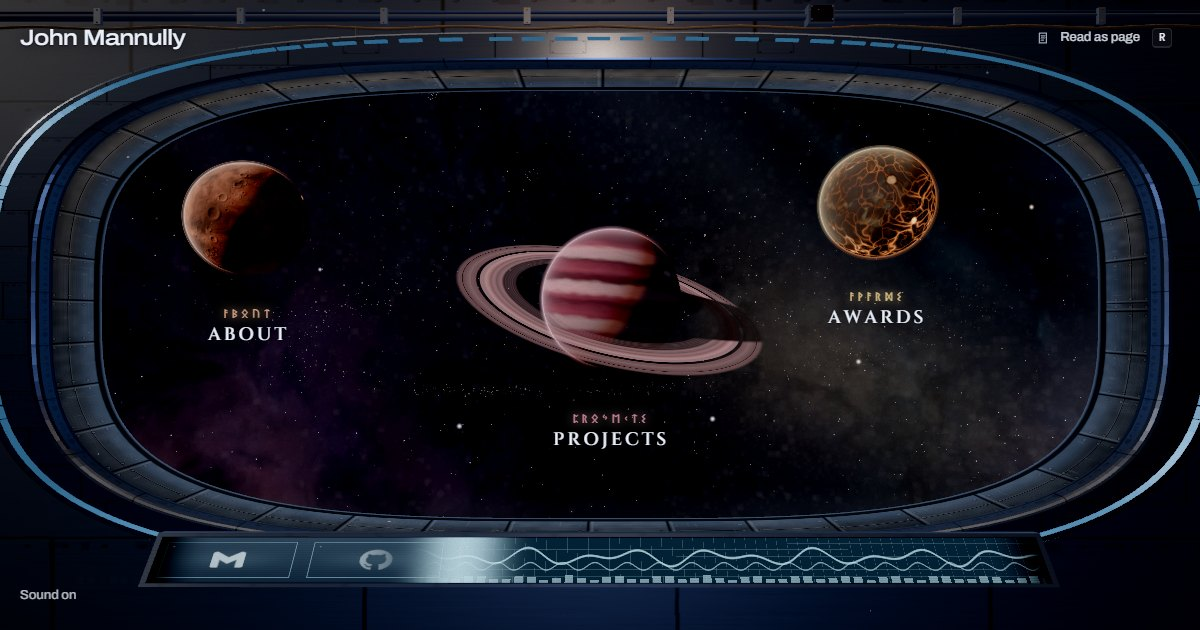
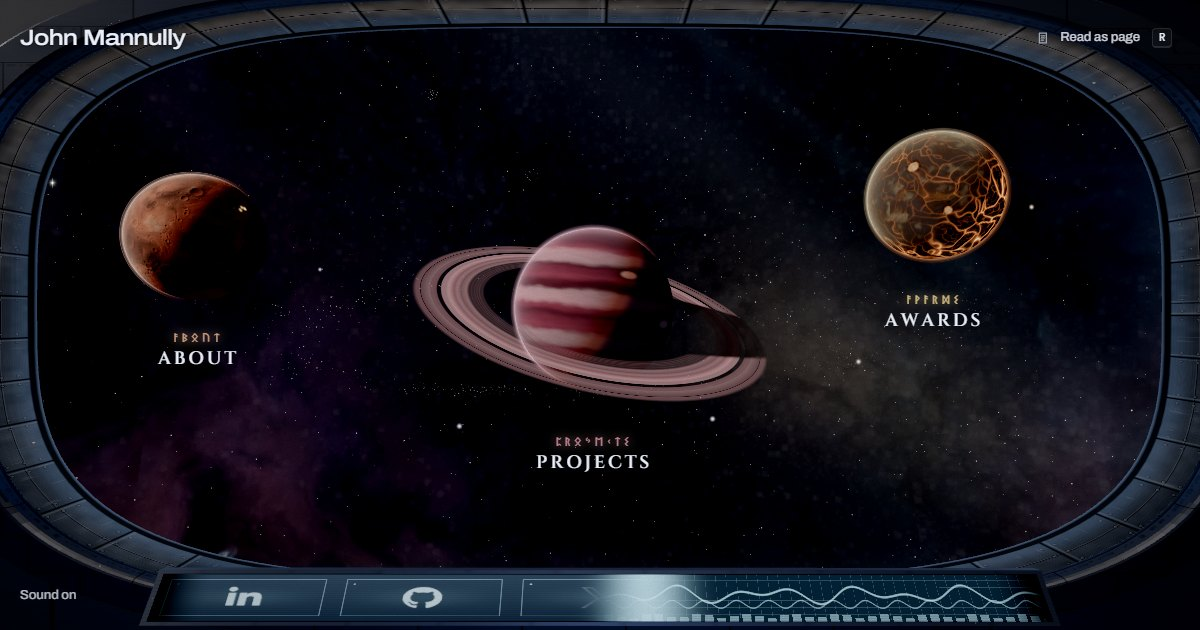
enlarged window, console at bottom, reordered links, removed devpost

diff --git a/index.html b/index.html
@@ -43,7 +43,6 @@
         "email": "mailto:johnmannul@gmail.com",
         "sameAs": [
           "https://github.com/teddycitrus",
-          "https://devpost.com/teddycitrus",
           "https://www.linkedin.com/in/john-mannully/"
         ]
       }
@@ -445,7 +444,6 @@
         <p>
           <a style="color: #e9eef7" href="mailto:johnmannul@gmail.com">Email</a>&nbsp;&nbsp;
           <a style="color: #e9eef7" href="https://github.com/teddycitrus">GitHub</a>&nbsp;&nbsp;
-          <a style="color: #e9eef7" href="https://devpost.com/teddycitrus">Devpost</a>&nbsp;&nbsp;
           <a style="color: #e9eef7" href="https://www.linkedin.com/in/john-mannully/">LinkedIn</a>
         </p>
         <p>This site needs JavaScript and WebGL for the interactive version.</p>
@@ -570,23 +568,14 @@
         // Cockpit.tsx): outlines in frame units, where x / 0.6 and y / 0.6 are screen coordinates (-1..1)
         var deck = boot.querySelector('.deck');
         var D = 0.6;
-        var corners = [[-0.78, 0.8], [0.78, 0.8], [0.9, 0.64], [0.9, -0.46], [0.6, -0.7], [-0.6, -0.7], [-0.9, -0.46], [-0.9, 0.64]];
-        var round = function (pts, rr) {
-          var out = [];
-          for (var i = 0; i < pts.length; i += 1) {
-            var p = pts[i], a = pts[(i - 1 + pts.length) % pts.length], b = pts[(i + 1) % pts.length];
-            var la = Math.hypot(a[0] - p[0], a[1] - p[1]), lb = Math.hypot(b[0] - p[0], b[1] - p[1]);
-            var ra = Math.min(rr, la / 2) / la, rb = Math.min(rr, lb / 2) / lb;
-            var s0 = [p[0] + (a[0] - p[0]) * ra, p[1] + (a[1] - p[1]) * ra];
-            var e0 = [p[0] + (b[0] - p[0]) * rb, p[1] + (b[1] - p[1]) * rb];
-            for (var k = 0; k <= 5; k += 1) {
-              var t = k / 5, u = 1 - t;
-              out.push([u * u * s0[0] + 2 * u * t * p[0] + t * t * e0[0], u * u * s0[1] + 2 * u * t * p[1] + t * t * e0[1]]);
-            }
-          }
-          return out;
-        };
-        var hole = round(corners.slice().reverse(), 0.045).map(function (q) { return [q[0] * D, q[1] * D]; });
+        // the aperture: a squared-off superellipse, S wide, from T at the top down to B (shape.ts)
+        var hole = [];
+        for (var hi = 0; hi < 128; hi += 1) {
+          var ha = (hi / 128) * Math.PI * 2, hc = Math.cos(ha), hs = Math.sin(ha);
+          var hx = (hc < 0 ? -1 : 1) * Math.pow(Math.abs(hc), 2 / 3.4) * 1.04;
+          var hy = (1.02 - 0.92) / 2 + (hs < 0 ? -1 : 1) * Math.pow(Math.abs(hs), 2 / 3.4) * ((1.02 + 0.92) / 2);
+          hole.push([hx * D, hy * D]);
+        }
         var grow = function (pts, d) {
           var n = pts.length;
           var normal = function (i) {
@@ -663,7 +652,7 @@
             g.stroke();
             // the raised frame around the window
             path(grow(hole, 0.045));
-            var trim = g.createLinearGradient(0, Y(0.5), 0, Y(-0.45));
+            var trim = g.createLinearGradient(0, Y(0.62), 0, Y(-0.56));
             trim.addColorStop(0, '#3a414d');
             trim.addColorStop(0.5, '#262b34');
             trim.addColorStop(1, '#171b22');
@@ -700,9 +689,9 @@
             g.shadowBlur = 8;
             g.stroke();
             g.shadowBlur = 0;
-            // the console standing on the dash across the window's foot
+            // the console along the bottom of the view
             var cl = function (x, y) { return [x, y]; };
-            var con = [cl(-0.445, -0.402), cl(0.445, -0.402), cl(0.46, -0.507), cl(-0.46, -0.507)];
+            var con = [cl(-0.445, -0.476), cl(0.445, -0.476), cl(0.46, -0.581), cl(-0.46, -0.581)];
             path([con[3], con[2], con[1], con[0]]);
             g.fillStyle = '#2a3039';
             g.fill();
@@ -716,7 +705,7 @@
             g.save();
             path(face);
             g.clip();
-            var fx0 = X(-0.45), fx1 = X(0.45), fy0 = Y(-0.41), fy1 = Y(-0.5);
+            var fx0 = X(-0.45), fx1 = X(0.45), fy0 = Y(-0.484), fy1 = Y(-0.574);
             g.strokeStyle = 'rgba(110, 200, 255, 0.07)';
             for (var gx = fx0; gx < fx1; gx += (fx1 - fx0) / 40) { g.beginPath(); g.moveTo(gx, fy0); g.lineTo(gx, fy1); g.stroke(); }
             g.strokeStyle = 'rgba(110, 205, 255, 0.75)';

diff --git a/src/scenes/ship/shape.ts b/src/scenes/ship/shape.ts
@@ -8,18 +8,19 @@ export const FRAME_DEPTH = 0.6;
 /**
  * The beam aperture in screen space at rest (1 = screen edge): a rounded,
  * squared-off ring (a superellipse) the tractor beam fires out through, from
- * T at the top down to B above the dashboard. The overworld layout keeps every
+ * T at the top down to B behind the console. It fills nearly the whole view,
+ * its frame just past the edges at rest. The overworld layout keeps every
  * planet inside it (see WINDOW_FIT).
  */
-const S = 0.92;
-const T = 0.8;
-const B = -0.7;
+export const S = 1.04;
+export const T = 1.02;
+export const B = -0.92;
 /** Squareness: 2 is an ellipse, higher fills the corners more */
 const SQUARE = 3.4;
 const HOLE_STEPS = 128;
 
 /** Fraction of the lens the overworld layout may use, so planets stay inside the window. */
-export const WINDOW_FIT = 0.84;
+export const WINDOW_FIT = 0.95;
 
 /** The aperture outline in frame units (counter-clockwise). */
 export const HOLE: Pt[] = Array.from({ length: HOLE_STEPS }, (_, i) => {

diff --git a/src/ui/DashControls.tsx b/src/ui/DashControls.tsx
@@ -1,5 +1,5 @@
 import { useEffect, useRef, type ComponentType, type CSSProperties } from 'react';
-import { SiDevpost, SiGithub, SiGmail, SiX } from 'react-icons/si';
+import { SiGithub, SiGmail, SiX } from 'react-icons/si';
 import { FaLinkedinIn } from 'react-icons/fa6';
 import { PiFileTextBold } from 'react-icons/pi';
 import { profile } from '@/data/content';
@@ -12,7 +12,6 @@ const ICONS: Record<string, ComponentType<{ className?: string }>> = {
   Email: SiGmail,
   GitHub: SiGithub,
   LinkedIn: FaLinkedinIn,
-  Devpost: SiDevpost,
   X: SiX,
   Resume: PiFileTextBold,
 };
@@ -160,7 +159,8 @@ const DashControls = () => {
           return <Icon key={l.label} />;
         })}
       </div>
-      <SoundToggle className="absolute" style={{ left: SAFE.left, bottom: SAFE.bottom }} />
+      {/* where the console reaches the left edge, it sits just above it */}
+      <SoundToggle className="absolute max-[799px]:!bottom-[11%]" style={{ left: SAFE.left, bottom: SAFE.bottom }} />
     </>
   );
 };

diff --git a/src/scenes/ship/Cockpit.tsx b/src/scenes/ship/Cockpit.tsx
@@ -625,11 +625,11 @@ const Cockpit = () => {
         />
         {/* canopy glass: reflections, dust, and the plasma of atmospheric entry */}
         <mesh material={glass} position={[0, 0.03, -D - 0.03]} raycast={noRaycast} renderOrder={29}>
-          <planeGeometry args={[1.3, 1.1]} />
+          <planeGeometry args={[1.45, 1.35]} />
         </mesh>
         <ShipDetails />
-        {/* the console: one long display across the foot of the window, tilted toward the pilot */}
-        <group position={[0, -0.372, -0.49]} rotation={[-0.32, 0, 0]}>
+        {/* the console: one long display along the bottom of the view, tilted toward the pilot */}
+        <group position={[0, -0.432, -0.49]} rotation={[-0.32, 0, 0]}>
           <mesh material={parts.trim} raycast={noRaycast} renderOrder={30}>
             <boxGeometry args={[CONSOLE_W + 0.01, CONSOLE_H + 0.01, 0.008]} />
           </mesh>

diff --git a/src/scenes/ship/materials.ts b/src/scenes/ship/materials.ts
@@ -1,5 +1,5 @@
 import * as THREE from 'three';
-import { FRAME_DEPTH } from './shape';
+import { B, FRAME_DEPTH, S, T } from './shape';
 
 /**
  * Canopy glass: almost invisible. Two soft reflection bands, a haze where the
@@ -48,7 +48,7 @@ export const glassMaterial = () =>
         float refl = exp(-r1 * r1) * 0.006 + exp(-r2 * r2) * 0.005;
         refl *= smoothstep(-0.2, 0.6, n.y + 0.3);
         // haze toward the frame
-        float edge = max(abs(n.x) / 0.9, (n.y > 0.0 ? n.y / 0.8 : -n.y / 0.7));
+        float edge = max(abs(n.x) / ${S.toFixed(3)}, (n.y > 0.0 ? n.y / ${T.toFixed(3)} : n.y / ${B.toFixed(3)}));
         float haze = smoothstep(0.85, 1.0, edge) * 0.006;
         // dust
         float dust = step(0.9975, hash(floor(n * 260.0))) * 0.02 * noise(n * 6.0);

diff --git a/src/ui/OverworldHud.tsx b/src/ui/OverworldHud.tsx
@@ -22,8 +22,8 @@ import DashControls from './DashControls';
 import AlienName from './AlienName';
 
 const SAFE_BANDS = { top: 84, bottom: 104 };
-/** Landscape phones: the header is one 56px row, so names may come up closer to it. */
-const SHORT_BANDS = { top: 64, bottom: 104 };
+/** Landscape phones: the header is one 56px row and the console under 40px, so names may come up closer to both. */
+const SHORT_BANDS = { top: 64, bottom: 56 };
 /** Clears the hover reticle (about 1.15x the planet radius) with room to spare. */
 const LABEL_GAP = (size: number) => size * 0.32 + 18;
 /** Keep other labels off the hover reticle and off ring systems. */

diff --git a/src/data/content.ts b/src/data/content.ts
@@ -24,11 +24,11 @@ export const beaconById = (
  * A vertical zig-zag between the top bar and the bottom dock.
  */
 const PORTRAIT_SLOTS: [number, number, number][] = [
-  [-0.48, 0.22, 0.088],
-  [0.08, 0.37, 0.1],
-  [0.48, 0.51, 0.088],
-  [-0.48, 0.64, 0.088],
-  [0.48, 0.77, 0.088],
+  [-0.48, 0.2, 0.096],
+  [0.08, 0.41, 0.11],
+  [0.48, 0.62, 0.096],
+  [-0.48, 0.72, 0.096],
+  [0.48, 0.8, 0.096],
 ];
 
 const view = { aspect: 16 / 9, fov: 60 };

diff --git a/src/scenes/transition/TransitionController.tsx b/src/scenes/transition/TransitionController.tsx
@@ -27,7 +27,7 @@ const LOCK_ZOOM = 4;
 /** The pull stops this many planet radii from its centre, just outside the atmosphere */
 const DIVE_STOP = 1.4;
 /** The beam leaves the aperture at the bottom of the view (screen y, -1 = bottom edge), just past the wall */
-const MOUTH_Y = -0.72;
+const MOUTH_Y = -0.8;
 const MOUTH_Z = FRAME_DEPTH + 0.08;
 /** Turn about the beam by the end of the pull, radians */
 const PULL_ROLL = 0.5;

diff --git a/src/scenes/ship/ShipDetails.tsx b/src/scenes/ship/ShipDetails.tsx
@@ -180,7 +180,8 @@ class Lamps {
 
 /** Conduit hand-run along the ceiling, with clamps, a tap box and a tag on a cord. */
 const buildCeiling = (k: Kit, l: Lamps) => {
-  const y = 0.566;
+  // above the aperture's frame: out of view at rest, seen when looking up
+  const y = 0.69;
   const z = WALL_Z + 0.007;
   const span = 0.7;
   k.cable([[-span, y, z], [0, y, z], [span, y, z]], 0.0052, C.steelDark);

diff --git a/README.md b/README.md
@@ -138,7 +138,7 @@ flowchart LR
 
 Scene modes always move in this order:
 
-1. `overworld`: the view from the ship's observation deck, where the site opens. The camera turns inside a fixed cockpit (bulkhead, canopy window, dashboard with a console standing across it), and the planet layout is fitted to 84% of the lens so every planet stays inside the window. Hovering a planet or its name highlights it; clicking either (or pressing its number) calls `travelTo`. The names are buttons Tab can reach, and on small portrait screens a name may sit over the edge of a neighbouring planet rather than hide, so every planet stays labelled. The sky is baked once into a cube map: a faint blue floor, the galactic band with star clouds and dust lanes, and four emission nebulae (warped fbm gas, bright knots, dark dust). Over it sit 9000 stars (the brightest with diffraction spikes), three distant spiral galaxies (additive shader planes 170 units out), and a meteor that streaks across the window every few seconds (off with reduced motion). Planets are lit with a soft wrapped terminator, a faint starlight fill on the night side and a bright scattering limb. The console across the dash, under the window, holds the contact keys: one key per entry in `profile.links` (Email, GitHub, Devpost, LinkedIn, X and the resume PDF on Google Drive), each shown as the link's logo. In orbit the console is drawn as a row of key faces (an inset frame, a status light and the logo per cell, the hovered or focused cell glowing) and in flight as a live instrument; switching to the keys, a bright edge sweeps across it over 1.6 s with the faces behind it and the logos a beat later, and back to the instrument in 0.5 s. The logos are painted on the face itself, so they stay fixed to the dash as the view turns: `DashControls` renders the icons once, draws them into a strip (`dashPanel.logos`) and the cockpit uses it as the face's texture. The links themselves are invisible keys laid over the cells: the cockpit projects the face's corners to the screen each frame (`dashPanel.quad`) and each key is clipped to its cell's exact outline. The top bar holds only Read as page; Sound sits bottom left.
+1. `overworld`: the view from the ship's observation deck, where the site opens. The camera turns inside a fixed cockpit (bulkhead, a canopy window filling nearly the whole view, and a console along the bottom edge), and the planet layout is fitted to 95% of the lens so every planet stays inside the window. Hovering a planet or its name highlights it; clicking either (or pressing its number) calls `travelTo`. The names are buttons Tab can reach, and on small portrait screens a name may sit over the edge of a neighbouring planet rather than hide, so every planet stays labelled. The sky is baked once into a cube map: a faint blue floor, the galactic band with star clouds and dust lanes, and four emission nebulae (warped fbm gas, bright knots, dark dust). Over it sit 9000 stars (the brightest with diffraction spikes), three distant spiral galaxies (additive shader planes 170 units out), and a meteor that streaks across the window every few seconds (off with reduced motion). Planets are lit with a soft wrapped terminator, a faint starlight fill on the night side and a bright scattering limb. The console along the bottom of the view holds the contact keys: one key per entry in `profile.links` (LinkedIn, GitHub, X, the resume PDF on Google Drive and Email), each shown as the link's logo. In orbit the console is drawn as a row of key faces (an inset frame, a status light and the logo per cell, the hovered or focused cell glowing) and in flight as a live instrument; switching to the keys, a bright edge sweeps across it over 1.6 s with the faces behind it and the logos a beat later, and back to the instrument in 0.5 s. The logos are painted on the face itself, so they stay fixed to the dash as the view turns: `DashControls` renders the icons once, draws them into a strip (`dashPanel.logos`) and the cockpit uses it as the face's texture. The links themselves are invisible keys laid over the cells: the cockpit projects the face's corners to the screen each frame (`dashPanel.quad`) and each key is clipped to its cell's exact outline. The top bar holds only Read as page; Sound sits bottom left.
 2. `transitioning-in`: the ship comes round onto the planet and plunges at it. The turn eases in and out over 650 ms and follows the planet on its orbit, and the deck keeps its place around the eye with a slight lag (so a planet at the edge of the window is never snapped to). The lens narrows 4 degrees as it locks on. From 150 ms the ship accelerates toward the planet and stops 1.4 radii from its centre, so the planet grows until it fills the window. The lens opens 9 degrees with the speed, speed lines and a rumble come with it, and the planet's air glows faintly on the canopy rim. From 930 ms the view crossfades over 380 ms into that planet's sky, and the mode switches at 1350 ms under full cover.
 3. `planet`: the light clears over 700 ms while the viewer is lowered down the beam from the mothership. The rig places the eye along the line from the spawn to the ship's belly at the exit's pull curve run backwards (about 84 units up the beam at the start, slowing to a crawl over 1500 ms), looking up at the ship with the roll unwinding, then floats the last half unit onto the ground while the view comes down to the field ahead. PlanetCamera publishes the spawn as the beam's foot, so the beam lands where the viewer stands, and it fades out by 2200 ms, when walking starts. The landing clock runs on frame time capped at 100 ms per frame, so a first-frame stall on shader compiles cannot skip the landing. The mothership cruises prow first around a wide loop overhead (95 by 55 units, about 240 up and 165 ahead, about 2.5 units a second), out of view at rest and in view once you look up past about 40 degrees. On desktop the cursor is locked for mouse look (released whenever the reader opens). Walking near or looking at a monument focuses it. A monument chosen by a click, the HUD or a glide stays focused until the viewer moves a unit away, even when the glide ends nearer a neighbour (as it does across the temple aisle). On desktop its orbiting panels (dark, near-solid plates that read from across the field) fan out into screens once the viewer is within 7.5 units; on phones and portrait tablets the bottom sheet opens instead, and on screens under 500px tall (landscape phones) a side panel, since the screens would shrink past reading size there.
 4. `transitioning-out`: the viewer is beamed back up. The camera turns to look at the mothership's belly (700 ms) while a tractor beam fades in (an additive tube of rising rings and streaks, with a pulsing pad at the feet); from 650 ms the viewer floats off the ground and is pulled along the beam with an accelerating, slowly rolling climb. The veil flashes the beam's light from 1550 ms and the mode returns to `overworld` at 2000 ms, so the lobby comes up out of the light. The cockpit stays hidden for the whole exit. Planet-to-planet travel is chained: the beam veil covers at 1350 ms, the mode switches at 1750 ms and the next landing happens 450 ms later under the veil.
@@ -229,7 +229,7 @@ Guarantees and limits:
 - Site basics: the tab title follows the view ("Iris · Projects · yo its john", "Read · yo its john"); `public/` has a themed `404.html`, `robots.txt`, `sitemap.xml`, `site.webmanifest` with 192 and 512 px icons, and a 32 px PNG favicon beside the SVG one. Vercel Web Analytics (cookieless page views) loads on the deployed site only. Nothing else is collected, and contact is by mail links, so there is no privacy policy to show.
 - The URL hash mirrors the view (`#/projects/proj-iris`, `#/read/awards`), so any planet, monument or reader section can be linked, and the browser Back button moves between planets.
 - The render loop pauses while the reader is open, and the music fades out over about a second; once it is silent the audio clock stops, and closing the reader wakes it and fades the music back in. The reader is a docs-style page on pure black: a header with the name, a Resume button and Close, a left section nav (tabs with a sky-blue underline on phones), a 660px content column in Inter with grey body text and Commit Mono labels, chips and square buttons, and an "On this page" list for the section in view (wide screens only). Its styles live in `src/ui/reader.css` under `.docs`, so the screens on the planets keep their own look.
-- The site opens on a terminal screen drawn by `index.html` before any script runs, seen from the observation deck: the deck around the window is painted to a canvas by the inline script from the same outline and offsets the 3D cockpit uses (`shape.ts`: the bulkhead's seamed plates and rivets, the raised frame with its rivets and light strip, the console on the dash), so the viewer is in the ship from the first frame and the 3D deck lines up under the painting. The window is a terminal screen (faint scanlines and glow) whose lines, in the system's monospace font, type or print one after another over about four seconds: a deep-space scan, "NEW STAR SYSTEM DETECTED: MANNULLY", a course set, "DESTINATION SET.", and a blinking "press any key to launch" ("tap to launch" on touch screens). It is plain text and CSS, so it shows with the page. Any key or tap launches: the terminal clears behind a burst of light, and hyperspace (a deep blue and violet tunnel with two sets of ribs turning opposite ways, a far field of coloured streaks with fading tails in three copies zooming past, a near field rushing by faster, and a pulsing core; the streak images are drawn on a CPU canvas in small idle slices and encoded off the main thread, since they are only seen after the launch) fills the window and runs the whole jump while the whole view sways a few pixels, like the shudder after the drop, so nothing that loads later can cut into it. That gesture is also what browsers need before a page may play sound, so the inline script makes the audio context inside it (`window.__bootAudio`) and `drone.ts` builds on it, so the warp is heard from the start even though the app only starts after the press. A link to a planet or the reader, or reduced motion, skips the launch: the app starts at once and the loader fades when it is ready. Hyperspace animates only transform and opacity, so the compositor runs it smoothly while the app loads underneath. The loader takes every click and tap while it is up, so nothing under it can be pressed.
+- The site opens on a terminal screen drawn by `index.html` before any script runs, seen from the observation deck: the deck around the window is painted to a canvas by the inline script from the same outline and offsets the 3D cockpit uses (`shape.ts`: the bulkhead's seamed plates and rivets, the raised frame with its rivets and light strip, the console along the bottom), so the viewer is in the ship from the first frame and the 3D deck lines up under the painting. The window is a terminal screen (faint scanlines and glow) whose lines, in the system's monospace font, type or print one after another over about four seconds: a deep-space scan, "NEW STAR SYSTEM DETECTED: MANNULLY", a course set, "DESTINATION SET.", and a blinking "press any key to launch" ("tap to launch" on touch screens). It is plain text and CSS, so it shows with the page. Any key or tap launches: the terminal clears behind a burst of light, and hyperspace (a deep blue and violet tunnel with two sets of ribs turning opposite ways, a far field of coloured streaks with fading tails in three copies zooming past, a near field rushing by faster, and a pulsing core; the streak images are drawn on a CPU canvas in small idle slices and encoded off the main thread, since they are only seen after the launch) fills the window and runs the whole jump while the whole view sways a few pixels, like the shudder after the drop, so nothing that loads later can cut into it. That gesture is also what browsers need before a page may play sound, so the inline script makes the audio context inside it (`window.__bootAudio`) and `drone.ts` builds on it, so the warp is heard from the start even though the app only starts after the press. A link to a planet or the reader, or reduced motion, skips the launch: the app starts at once and the loader fades when it is ready. Hyperspace animates only transform and opacity, so the compositor runs it smoothly while the app loads underneath. The loader takes every click and tap while it is up, so nothing under it can be pressed.
 - `Warp` (in the overworld scene, after `TelescopeCamera` and before the cockpit rig) keeps the time of the arrival. The system renders under the loader all along, so it is compiled and drawn before anyone sees it. Once the visitor has launched and `Preload` reports everything ready (never later than 90 s after the launch, a guard against a hung driver or fetch), hyperspace runs on for at least 500 ms, and the whole jump lasts at least 2.6 s from the launch so a cached visit still sees it; a click, tap or key drops out within 450 ms. Planets ignore the pointer during the arrival, so that click never picks a planet. Then the drive spools for 560 ms (`spoolBoot`: the loader's hyperspace surges, shakes and goes white, the drop sound plays), and under the full flash the loader's picture is removed (`endBoot`): as the flash clears over 520 ms the deck and the system are there, the lens snaps 4 degrees narrow and settles over 1.1 s while the deck's shudder dies away (`warpFx.lens`, `warpFx.shake`, both zeroed once it settles), and 450 ms after the flash the HUD fades up over 1 s. Then the planet names fade in one by one (500 ms in, 220 ms apart, over 1.4 s each) and the console sweeps from its instrument chart into the contact keys left to right over 1.6 s. The store's `intro` flag hides the HUD until then; keys do nothing, and travel asked for meanwhile (a link, Back) is queued and starts as the arrival ends.
 - The warp plays only on a plain visit to the lobby. A link to a planet or the reader, reduced motion and the no-WebGL page get the loader alone: the display reaches 100%, reads "Arrived", and fades.
 - Sound: a held hyperspace roar (a rumble, a sweeping rush and a beating drive) and a drop-out cue (a rising whine into a deep boom and a falling rush). The warp sounds are synthesized in Web Audio, so there is nothing to download. The key or tap that launches unlocks audio, so the roar plays from the first frame of hyperspace.
@@ -250,7 +250,7 @@ Guarantees and limits:
   - The colossus walks a slow circle 62 units out, its seams and eye slit glowing through the haze. Look at it and hold still for 2.5 s (or click it) and it stops, turns its head to you, raises an arm and waves with a deep grinding rumble, then walks on; it waits 35 s before it answers again.
   - Two birds swoop down to circle a viewer who stands still for 3 s, and drifters within 15 units hover around the viewer. Reduced motion keeps them all still.
 - Each planet has its own track (`src/audio/tracks.ts`), played by a look-ahead step sequencer (sixteenths, queued 300 ms ahead every 60 ms) on synthesised instruments, and it takes over from the orbit pad from the dive onward with a 2.5 s crossfade. About (dunes at sunset, F major, 84 bpm) is fingerpicked folk with Mixolydian turns, a shaker, a warm drone and kalimba answers. Projects (night over a gas giant, C# minor, 100 bpm) is a sixteenth-note synth arpeggio whose filter breathes over two bars, a pumping sub bass, a soft kick and long echoes. Awards (the molten world, E Lydian, 72 bpm) is brass swells, a taiko heartbeat, ember crackle and a bell line that climbs to the raised fourth.
-- The orbit pad is synthesised (detuned saws through a slow lowpass and a generated reverb). It walks an eight-chord progression with voice-led triads and a bass (I vi IV V I iii ii V in major, i VI iv V i III VII V in minor, harmonic-minor V), so every phrase cadences home; each V holds a suspended fourth and resolves it halfway through, and soft chimes land on chord tones. Chords last 11 s with a 3.2 s overlap. Music sits at 0.08 gain in orbit against 0.2 on a planet. The tractor beam has its own sounds (a thrum and rising shimmer as it takes hold in the lobby, a falling hum and a soft settle on the way down, a rising hum and whoosh on the way up). Animal calls (chirp, squeak, mew, boop) are short synthesised sweeps levelled by distance, panned around the camera and rate-limited. It starts on the first click or key press; the Sound toggle is stored in `localStorage` and suspends the audio context when off.
+- The orbit pad is synthesised (a sine and two detuned triangles per tone through a slow lowpass and a generated reverb). It walks an eight-chord progression with voice-led triads and a bass (I vi IV V I iii ii V in major, i VI iv V i III VII V in minor, harmonic-minor V), so every phrase cadences home; each V holds a suspended fourth and resolves it halfway through, and soft chimes land on chord tones. Chords last 11 s with a 3.2 s overlap. Music sits at 0.06 gain in orbit against 0.12 on a planet. The tractor beam has its own sounds (a thrum and rising shimmer as it takes hold in the lobby, a falling hum and a soft settle on the way down, a rising hum and whoosh on the way up). Animal calls (chirp, squeak, mew, boop) are short synthesised sweeps levelled by distance, panned around the camera and rate-limited. It starts on the first click or key press; the Sound toggle is stored in `localStorage` and suspends the audio context when off.
 - Type is one self-hosted family, Archivo (expanded cut for display, normal for text), with JetBrains Mono only for key caps and handles. No font CDN.
 - Post-processing renders in linear HDR with AgX tone mapping and a light contrast lift; only values above about 0.9 bloom (sun, bright stars, lava, glints, focused seams). Touch devices drop multisampling and film grain.
 
@@ -349,7 +349,7 @@ This is a personal site, but bug reports and suggestions are welcome. File an is
 <!-- CONTACT -->
 ## Contact
 
-John Mannully: [LinkedIn](https://www.linkedin.com/in/john-mannully/) &middot; [GitHub](https://github.com/teddycitrus) &middot; [Devpost](https://devpost.com/teddycitrus)
+John Mannully: [LinkedIn](https://www.linkedin.com/in/john-mannully/) &middot; [GitHub](https://github.com/teddycitrus)
 
 Live site: [https://johnmannully.com](https://johnmannully.com/)
 
